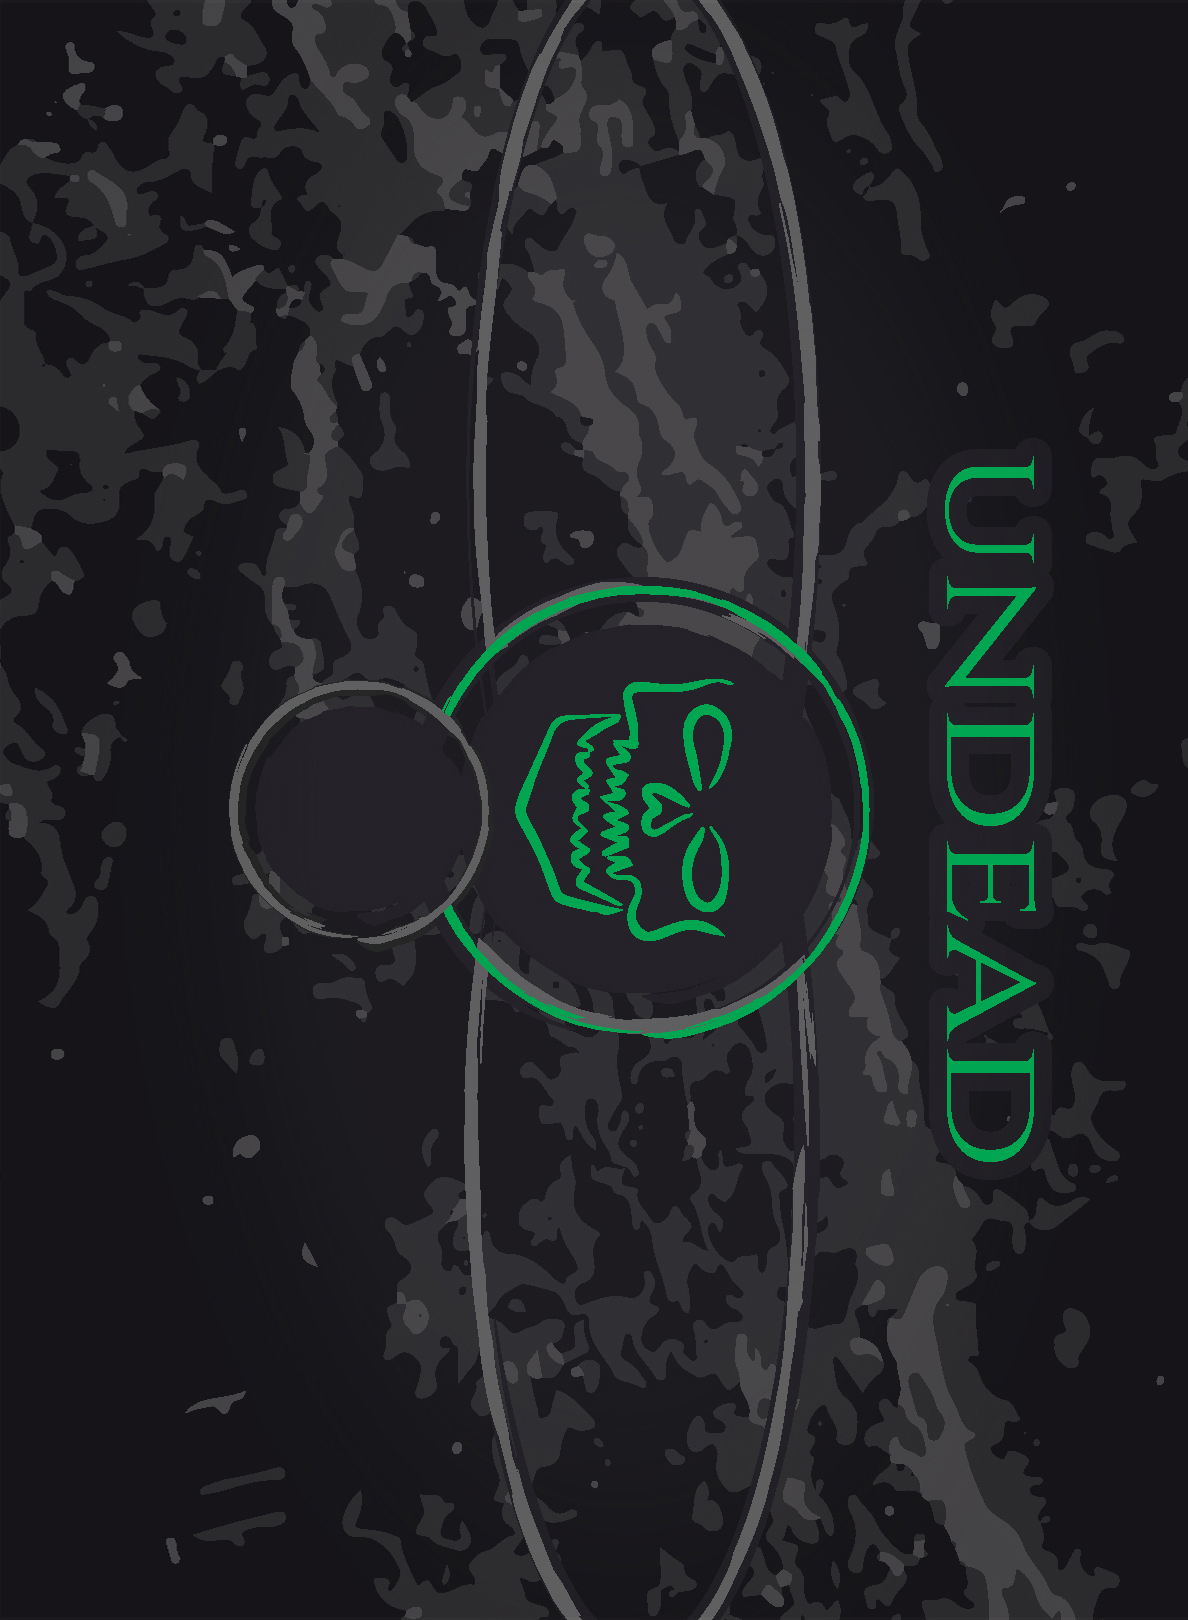
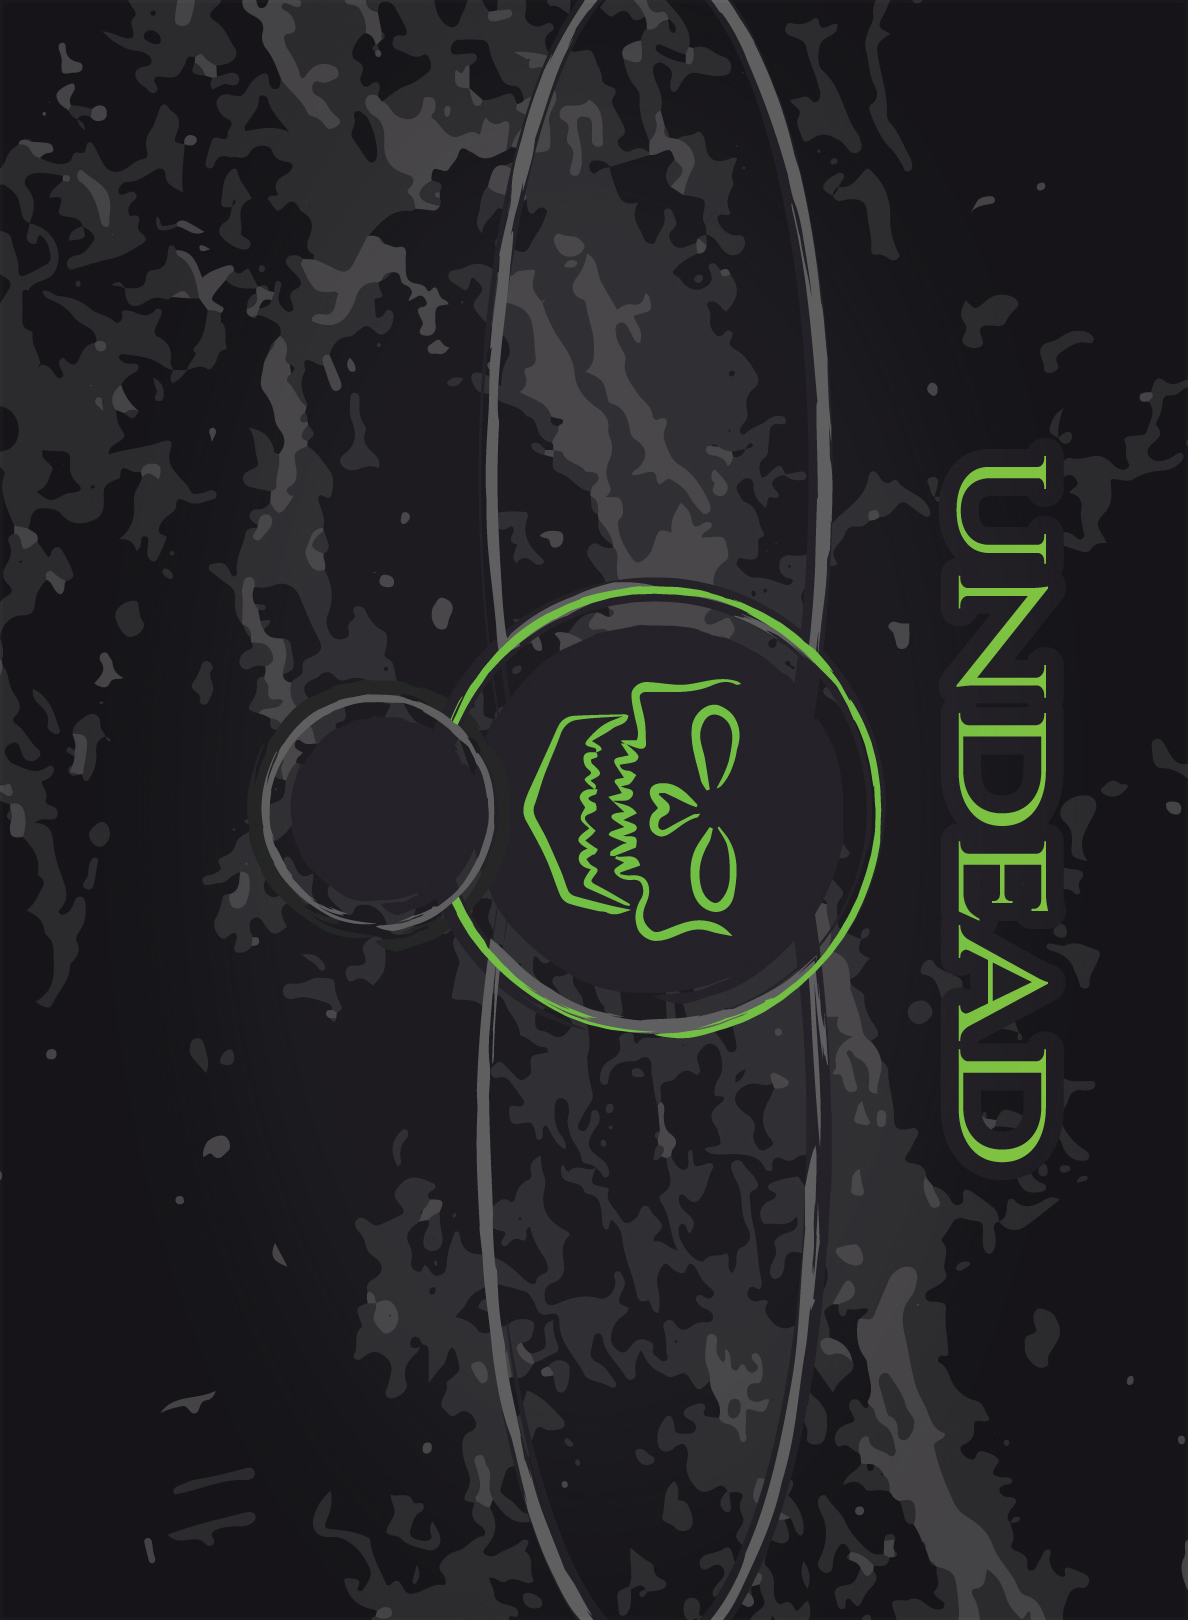
art and generate js linebreak tweaks

diff --git a/src/js/cards.js b/src/js/cards.js
@@ -179,11 +179,34 @@ function cleanCardData(template_id, card) {
     if (card.abilitytext) { // bold ability STATEMENTS:
       card.abilitytext = card.abilitytext.replace(/(.*:)/g, boldCapture);
     }
+    if (card.roll) { // bold loot STATEMENTS:
+      card.roll = card.roll.replace(/(.*:)/g, boldCapture);
+    }
 
-    Object.keys(card).forEach(function(property) {
-      if (card[property] === '-') { card[property] = ''; } // remove '-' proprties
+    Object.keys(card).forEach(function parseProperties (property) {
+
+      if (card[property] === '-') { // remove '-' proprties
+        card[property] = '';
+      }
       else {
-        card[property] = card[property].replace(/(?:\r\n|\r|\n)/g, '<br />'); // turn linebreaks into BR's
+        // replace CSV line breaks with BR's - padded if: above and below OR's, below end of </strong>, above start of <strong>
+        // otherwise just a normal BR
+        card[property] = card[property].replace(/(\n(<strong>))|((<\/strong>)\n)|(\n(OR)\n)|(\n)/mg, function (whole, capture, match) {
+          if (whole.indexOf('<strong>') !== -1) {
+            return '<br class="padded"/>' + whole;
+          }
+          else if (whole.indexOf('</strong>') !== -1) {
+            return whole + '<br class="padded"/>';
+          }
+          else if (whole.indexOf('OR') !== -1) {
+            return '<br class="padded"/>' + whole + '<br class="padded"/>';
+          }
+          else {
+            return whole + '<br />';
+          }
+        });
+
+
 
         // Expand &macro's
         card[property] = card[property].replace(/&[a-zA-Z0-9;]*/mg, function replacer (match) {

diff --git a/src/scss/cards.scss b/src/scss/cards.scss
@@ -340,8 +340,11 @@ svg {
 
     br {
       display: block;
-      margin: 7px 0;
       content: "";
+
+      &.padded {
+        margin: 7px 0;
+      }
     }
   }
 
@@ -455,6 +458,18 @@ svg {
     }
   }
 
+  &.Loot {
+    .abilitytext {
+      height: auto;
+      min-height: 0.4in;
+    }
+
+    .rng {
+      min-height: 0.65in;
+      text-align: left;
+    }
+  }
+
   &.Helper {
 
     article {
@@ -481,7 +496,7 @@ svg {
       display: block;
       margin: 0;
       padding: 0;
-      height: 0.1in;
+      height: 0.08in;
       line-height: 0in;
       content: "";
     }
@@ -750,13 +765,13 @@ svg {
 .card.back.Encounter {
   .tier {
     left: 0.03in;
-    bottom: 0.44in;
+    bottom: 0.48in;
   }
 }
 .card.back.Beast {
 
   .tier {
-    color: #BE1D2F;
+    color: #ec1f24;
   }
 
   &:before {
@@ -776,7 +791,7 @@ svg {
 .card.back.Fae {
 
   .tier {
-    color: #AB499B;
+    color: #df3f95;
   }
 
   &:before {
@@ -786,7 +801,7 @@ svg {
 .card.back.Undead {
 
   .tier {
-    color: #00A652;
+    color: #70c25e;
   }
 
   &:before {
